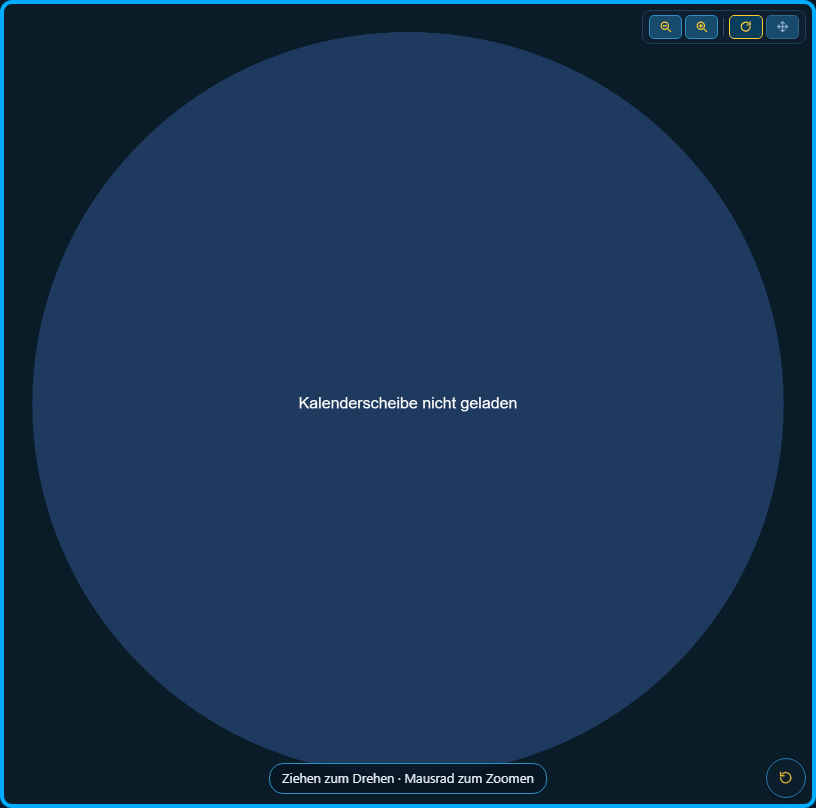
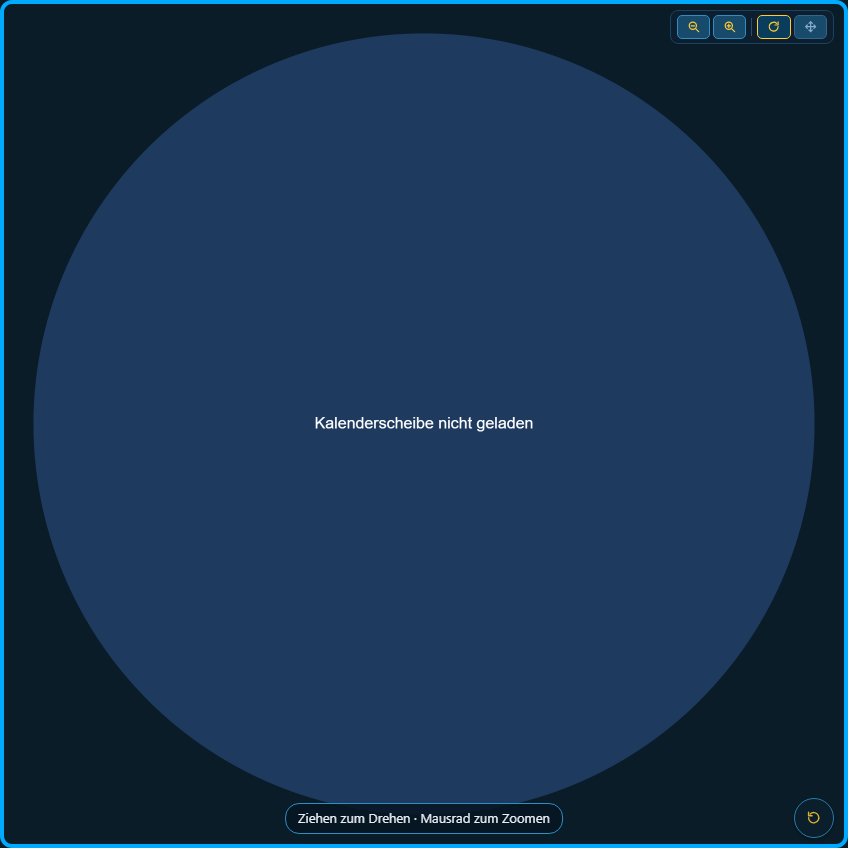
Gherkin-Szenarien: Uhr sofort in voller Größe, Menü ohne Querbalken
- Uhr steht vom ersten Bild an fest und ist quadratisch (3 Fenstergrößen)
- Menü kann nicht waagerecht scrollen
- 9 Referenzbilder neu (Uhr 848 statt 816 px), fachlich geprüft

diff --git a/features/steps/feinschliff.steps.ts b/features/steps/feinschliff.steps.ts
@@ -91,3 +91,38 @@ Then('hat die Uhr dabei ihre Größe behalten', async ({ ablage }) => {
   const { b } = ablage.get('beobachtung') as { b: number[] };
   expect([...new Set(b)], 'Uhr hat die Größe geändert („wackelt“)').toHaveLength(1);
 });
+
+Given('ich beobachte die Größe der Uhr ab dem Laden der Seite', async ({ uhr }) => {
+  await uhr.page.addInitScript(() => {
+    const w = window as unknown as { __groessen: number[] };
+    w.__groessen = [];
+    const t0 = performance.now();
+    const bild = () => {
+      const c = document.querySelector('#canvas') as HTMLCanvasElement | null;
+      if (c?.style.width) w.__groessen.push(Math.round(c.getBoundingClientRect().width));
+      if (performance.now() - t0 < 3000) requestAnimationFrame(bild);
+    };
+    requestAnimationFrame(bild);
+  });
+});
+
+Then('hatte die Uhr vom ersten Bild an ihre endgültige Größe', async ({ uhr }) => {
+  await uhr.page.waitForTimeout(1500); // Beobachtungszeitraum nach dem Laden
+  const groessen = await uhr.page.evaluate(() => (window as unknown as { __groessen: number[] }).__groessen);
+  expect(groessen.length, 'keine Messung').toBeGreaterThan(0);
+  expect([...new Set(groessen)], 'Uhr wuchs nach dem Laden noch an').toHaveLength(1);
+});
+
+Then('ist die Uhr quadratisch', async ({ uhr }) => {
+  const b = await uhr.box(uhr.canvas);
+  expect(Math.round(b.width)).toBe(Math.round(b.height));
+});
+
+Then('kann das Menü nicht waagerecht scrollen', async ({ uhr }) => {
+  // Der Testbrowser blendet Scrollbalken aus – daher Einstellung und Breiten prüfen
+  const r = await uhr.page.locator('app-controls').evaluate((e) => ({
+    overflowX: getComputedStyle(e).overflowX, inhalt: e.scrollWidth, sichtbar: e.clientWidth,
+  }));
+  expect(r.overflowX, 'waagerechter Scrollbalken möglich').toBe('hidden');
+  expect(r.inhalt, 'Inhalt breiter als das Menü').toBeLessThanOrEqual(r.sichtbar);
+});
